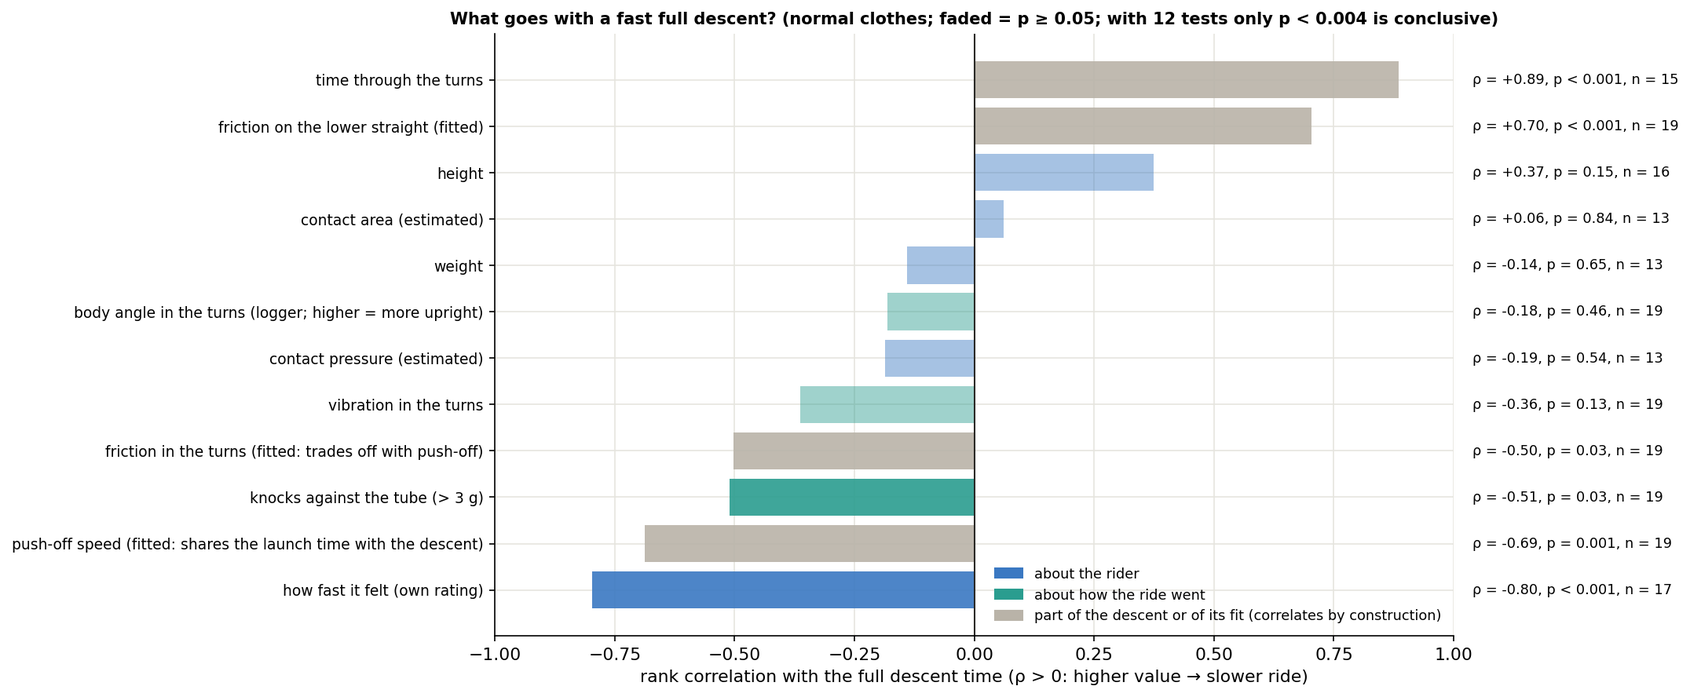
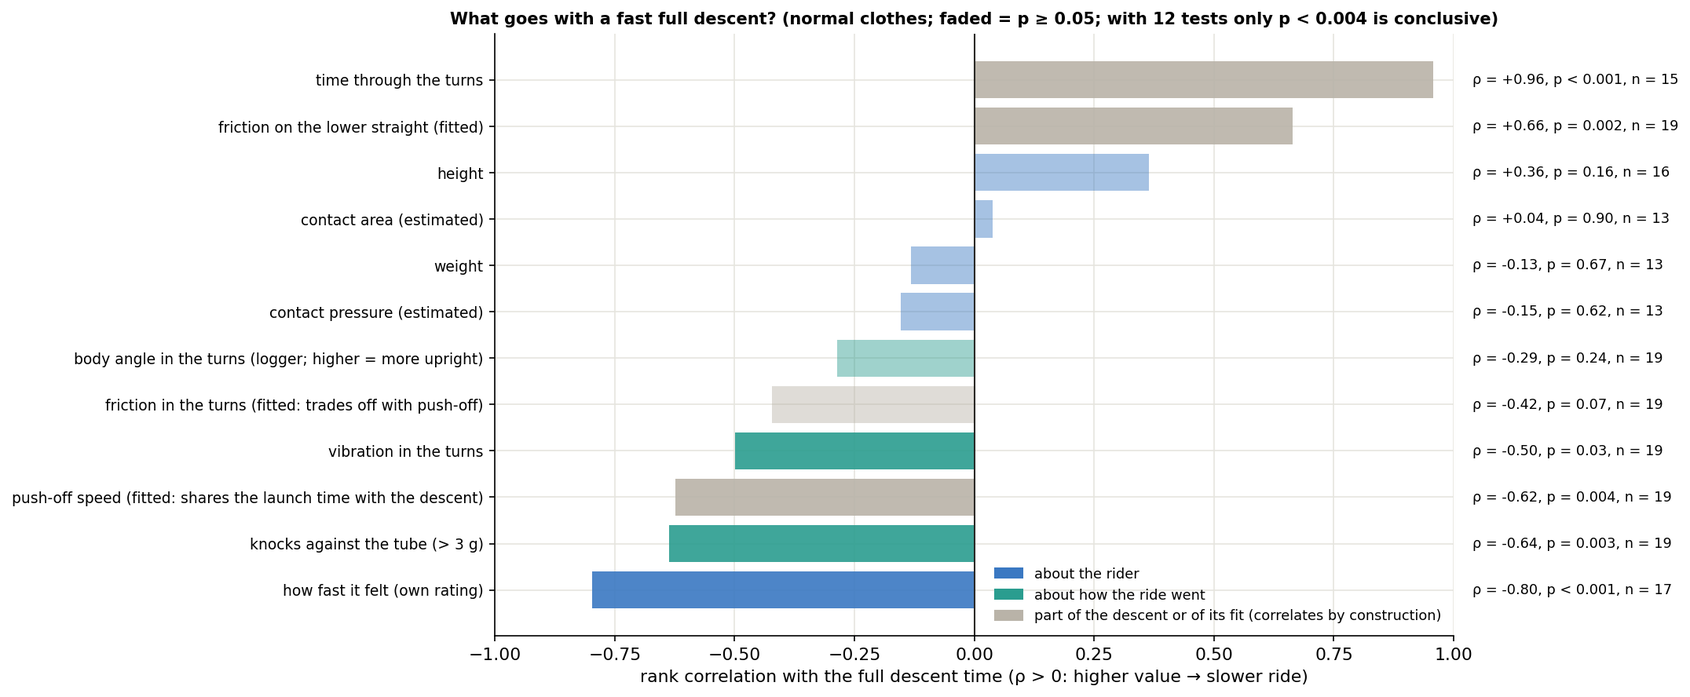
Descent times checked against physics (P07: measured end impossible -> friction fit to its rest position, ~8.4 s); camera views on the main Landing 3-D view; updated stats

diff --git a/results.html b/results.html
@@ -127,24 +127,24 @@
     <li><b>The gap is made in the turns, not on the last straight.</b> <span class="sup">The turn speed decides how a ride ends (p = 0.006). The simulation shows he left the turns at ~13 km/h vs our 6, and that turn friction alone moves the speed out of the tube from 12 to 18 km/h.</span><a class="fr" href="#M2">M2</a><a class="fr" href="#S2">S2</a><a class="fr" href="#L2">L2</a></li>
     <li><b>Our riders crawled because they rode on the stall point.</b> <span class="sup">Friction in the turns 0.54–0.62 against a stall at 0.58; the cop's was about 0.15.</span><a class="fr" href="#M3">M3</a><a class="fr" href="#W3">W3</a></li>
     <li><b>To match the cop you must leave the tube at ≥ 18 km/h.</b> <span class="sup">No straight friction or posture fixes a slow exit: posture changes the last straight by < 2 % at equal speed.</span><a class="fr" href="#M4">M4</a><a class="fr" href="#L1">L1</a><a class="fr" href="#L4">L4</a></li>
-    <li><b>Lying flat goes with fast rides, but posture alone does not explain the cop.</b> <span class="sup">Measured: lying flat 4.2 vs 2.7 km/h in the turns (p = 0.001) and 7.2 vs 13.3 s for the full descent (p = 0.003). Simulated: posture changes the whole-slide time by ±15 % with our friction, ~1 % with his.</span><a class="fr" href="#M5">M5</a><a class="fr" href="#M10">M10</a><a class="fr" href="#W2">W2</a></li>
+    <li><b>Lying flat goes with fast rides, but posture alone does not explain the cop.</b> <span class="sup">Measured: lying flat 4.2 vs 2.7 km/h in the turns (p = 0.001) and 7.2 vs 13.3 s for the full descent (p < 0.001). Simulated: posture changes the whole-slide time by ±15 % with our friction, ~1 % with his.</span><a class="fr" href="#M5">M5</a><a class="fr" href="#M10">M10</a><a class="fr" href="#W2">W2</a></li>
     <li><b>Pushing harder helps, but not enough.</b> <span class="sup">Measured ρ = 0.46 (p = 0.05); simulated 16 km/h push still slower than the cop.</span><a class="fr" href="#M5">M5</a><a class="fr" href="#W1">W1</a></li>
-    <li><b>Not the suit, not body size.</b> <span class="sup">No clear group differences in the turns or over the full descent (taller riders slower, p = 0.04, only suggestive); the cop suit made nobody faster.</span><a class="fr" href="#M6">M6</a><a class="fr" href="#M10">M10</a><a class="fr" href="#M7">M7</a></li>
+    <li><b>Not the suit, not body size.</b> <span class="sup">No clear group differences in the turns or over the full descent (jeans slower, p = 0.04, only suggestive); the cop suit made nobody faster.</span><a class="fr" href="#M6">M6</a><a class="fr" href="#M10">M10</a><a class="fr" href="#M7">M7</a></li>
     <li><b>The cop's swing and twist come from speed and a relaxed body.</b> <span class="sup">The simulation reproduces his 82° roll at the tube mouth with no special technique; tone changes the twist, not the time.</span><a class="fr" href="#S2">S2</a><a class="fr" href="#L3">L3</a></li>
     <li><b>The numbers hold up.</b> <span class="sup">Two sensors agree within 7 %; the simulation matches video it was not fitted to (within 0.1 s at 10.5 m); riders' own ratings rank them correctly (ρ = −0.80 with the full descent time).</span><a class="fr" href="#M8">M8</a><a class="fr" href="#S1">S1</a><a class="fr" href="#M9">M9</a><a class="fr" href="#M11">M11</a></li>
   </ul>
   <p class="notes">Limits: one run per rider per outfit; the cop's numbers rest on two hand-read times from a 15-fps clip;
     posture was seen after the turns. M = measured, S/W/L = simulated (full-body physics, calibrated to the measurements).</p>
   <h2>Measured</h2>
-  <div class="card fig" id="M1"><a href="results/s2g_03_cop_same_stretch.png?v=20261019125410" target="_blank" rel="noopener"><img loading="lazy" src="results/s2g_03_cop_same_stretch.png?v=20261019125410" alt="On the only stretch filmed for both, every rider was slower than the cop"></a><div><span class="fid">M1</span><h3>On the only stretch filmed for both, every rider was slower than the cop</h3><p>Tube mouth → end lip (3.95 m): our fastest riders averaged 10–16 km/h, the cop 20 km/h (all 9 slower, p = 0.004).</p><p class="notes">Times read frame by frame on physical slide features (±0.035–0.07 s).</p></div></div>
-  <div class="card fig" id="M2"><a href="results/s2g_01_outcome.png?v=20261019125410" target="_blank" rel="noopener"><img loading="lazy" src="results/s2g_01_outcome.png?v=20261019125410" alt="How fast you take the turns decides how the ride ends"></a><div><span class="fid">M2</span><h3>How fast you take the turns decides how the ride ends</h3><p>Stopped before the flat: 2.0 ± 0.5 km/h in the turns; stopped on the flat: 3.3 ± 0.7; shot off the end: 4.2 ± 0.7 (p = 0.006). The ones who shot off were also slipperier on the lower straight (friction 0.27 vs 0.48 and 0.59, p < 0.001).</p><p class="notes">Dots = runs, black = mean ± SD. Ending seen on the landing camera.</p></div></div>
-  <div class="card fig" id="M3"><a href="results/s2_06_friction_lever.png?v=20261019125410" target="_blank" rel="noopener"><img loading="lazy" src="results/s2_06_friction_lever.png?v=20261019125410" alt="Everyone rode on the stall point"></a><div><span class="fid">M3</span><h3>Everyone rode on the stall point</h3><p>On a 30° slope, friction 0.58 cancels gravity. Our riders had 0.54–0.62 in the turns, where a small change in friction is a big change in speed.</p><p class="notes">Curves = slide model for two push-off speeds; shaded = our riders.</p></div></div>
-  <div class="card fig" id="M4"><a href="results/ls_02_what_it_takes.png?v=20261019125410" target="_blank" rel="noopener"><img loading="lazy" src="results/ls_02_what_it_takes.png?v=20261019125410" alt="Matching the cop needs speed out of the tube"></a><div><span class="fid">M4</span><h3>Matching the cop needs speed out of the tube</h3><p>Every point on the gold line reproduces the cop's 0.70 s. Our riders all sit to its left: even the slipperiest came out of the tube 3–4 km/h too slowly. The "wannabe cop" (rain suit) is close to the cop.</p><p class="notes">Blue = our 9 riders who shot off, ±1σ (point model fitted to logger + video).</p></div></div>
-  <div class="card fig" id="M5"><a href="results/s2g_05_posture_takeoff.png?v=20261019125410" target="_blank" rel="noopener"><img loading="lazy" src="results/s2g_05_posture_takeoff.png?v=20261019125410" alt="Lying flat went with faster turns; push-off helped a little"></a><div><span class="fid">M5</span><h3>Lying flat went with faster turns; push-off helped a little</h3><p>Lying flat: 4.2 km/h in the turns vs 2.7 sitting up (p = 0.001); 6 of 8 shot off vs 1 of 11 (p = 0.006). Push-off: ρ = 0.46, p = 0.05.</p><p class="notes">Posture coded on the straight, after the turns: slow riders may also sit up because they are slow.</p></div></div>
-  <div class="card fig" id="M6"><a href="results/s2g_02_groups.png?v=20261019125410" target="_blank" rel="noopener"><img loading="lazy" src="results/s2g_02_groups.png?v=20261019125410" alt="Clothes and body size: no clear difference"></a><div><span class="fid">M6</span><h3>Clothes and body size: no clear difference</h3><p>Sex, age, weight, height, estimated contact area and pressure: p = 0.19–0.82. Jeans slower (p = 0.02), only suggestive with 8 comparisons.</p><p class="notes">Bars = mean ± SD, normal-clothes runs only. Group averages only.</p></div></div>
-  <div class="card fig" id="M10"><a href="results/an_4_descent_groups.png?v=20261019125410" target="_blank" rel="noopener"><img loading="lazy" src="results/an_4_descent_groups.png?v=20261019125410" alt="The same comparison for the full descent time"></a><div><span class="fid">M10</span><h3>The same comparison for the full descent time</h3><p>Lying flat in the trough: 7.2 s median from the top to the end vs 13.3 s sitting up (p = 0.003, conclusive even with 8 tests). Weight, contact area and pressure: no difference. Taller riders were slower (8.6 vs 16.9 s, p = 0.04) and jeans slower (17.0 vs 8.6 s, p = 0.09): suggestive only.</p><p class="notes">Normal clothes, Mann-Whitney. Push-off is fitted and shares the launch time with the descent, so its difference is partly built in.</p></div></div>
-  <div class="card fig" id="M11"><a href="results/an_5_descent_correlations.png?v=20261019125410" target="_blank" rel="noopener"><img loading="lazy" src="results/an_5_descent_correlations.png?v=20261019125410" alt="What else goes with a fast full descent?"></a><div><span class="fid">M11</span><h3>What else goes with a fast full descent?</h3><p>How fast it felt matches the real descent best (ρ = −0.80, p < 0.001). Fast rides knocked against the tube more (ρ = −0.51, p = 0.03): a consequence of speed rather than a cause. Weight, height, contact, pressure and body angle in the turns: nothing clear.</p><p class="notes">Grey = parts of the descent or of its fit, which correlate by construction. 12 tests: only p < 0.004 is conclusive.</p></div></div>
-  <div class="card fig" id="M7"><a href="results/s2_02_suit_pairs.png?v=20261019125410" target="_blank" rel="noopener"><img loading="lazy" src="results/s2_02_suit_pairs.png?v=20261019125410" alt="The cop suit did not make us faster"></a><div><span class="fid">M7</span><h3>The cop suit did not make us faster</h3><p>Of three riders who rode in both, P04 was faster in the suit, P05 slower, P06 the same.</p><p class="notes">One run each; the suit was always the second run.</p></div></div>
+  <div class="card fig" id="M1"><a href="results/s2g_03_cop_same_stretch.png?v=20261019130009" target="_blank" rel="noopener"><img loading="lazy" src="results/s2g_03_cop_same_stretch.png?v=20261019130009" alt="On the only stretch filmed for both, every rider was slower than the cop"></a><div><span class="fid">M1</span><h3>On the only stretch filmed for both, every rider was slower than the cop</h3><p>Tube mouth → end lip (3.95 m): our fastest riders averaged 10–16 km/h, the cop 20 km/h (all 9 slower, p = 0.004).</p><p class="notes">Times read frame by frame on physical slide features (±0.035–0.07 s).</p></div></div>
+  <div class="card fig" id="M2"><a href="results/s2g_01_outcome.png?v=20261019130009" target="_blank" rel="noopener"><img loading="lazy" src="results/s2g_01_outcome.png?v=20261019130009" alt="How fast you take the turns decides how the ride ends"></a><div><span class="fid">M2</span><h3>How fast you take the turns decides how the ride ends</h3><p>Stopped before the flat: 2.0 ± 0.5 km/h in the turns; stopped on the flat: 3.3 ± 0.7; shot off the end: 4.2 ± 0.7 (p = 0.006). The ones who shot off were also slipperier on the lower straight (friction 0.27 vs 0.48 and 0.59, p < 0.001).</p><p class="notes">Dots = runs, black = mean ± SD. Ending seen on the landing camera.</p></div></div>
+  <div class="card fig" id="M3"><a href="results/s2_06_friction_lever.png?v=20261019130009" target="_blank" rel="noopener"><img loading="lazy" src="results/s2_06_friction_lever.png?v=20261019130009" alt="Everyone rode on the stall point"></a><div><span class="fid">M3</span><h3>Everyone rode on the stall point</h3><p>On a 30° slope, friction 0.58 cancels gravity. Our riders had 0.54–0.62 in the turns, where a small change in friction is a big change in speed.</p><p class="notes">Curves = slide model for two push-off speeds; shaded = our riders.</p></div></div>
+  <div class="card fig" id="M4"><a href="results/ls_02_what_it_takes.png?v=20261019130009" target="_blank" rel="noopener"><img loading="lazy" src="results/ls_02_what_it_takes.png?v=20261019130009" alt="Matching the cop needs speed out of the tube"></a><div><span class="fid">M4</span><h3>Matching the cop needs speed out of the tube</h3><p>Every point on the gold line reproduces the cop's 0.70 s. Our riders all sit to its left: even the slipperiest came out of the tube 3–4 km/h too slowly. The "wannabe cop" (rain suit) is close to the cop.</p><p class="notes">Blue = our 9 riders who shot off, ±1σ (point model fitted to logger + video).</p></div></div>
+  <div class="card fig" id="M5"><a href="results/s2g_05_posture_takeoff.png?v=20261019130009" target="_blank" rel="noopener"><img loading="lazy" src="results/s2g_05_posture_takeoff.png?v=20261019130009" alt="Lying flat went with faster turns; push-off helped a little"></a><div><span class="fid">M5</span><h3>Lying flat went with faster turns; push-off helped a little</h3><p>Lying flat: 4.2 km/h in the turns vs 2.7 sitting up (p = 0.001); 6 of 8 shot off vs 1 of 11 (p = 0.006). Push-off: ρ = 0.46, p = 0.05.</p><p class="notes">Posture coded on the straight, after the turns: slow riders may also sit up because they are slow.</p></div></div>
+  <div class="card fig" id="M6"><a href="results/s2g_02_groups.png?v=20261019130009" target="_blank" rel="noopener"><img loading="lazy" src="results/s2g_02_groups.png?v=20261019130009" alt="Clothes and body size: no clear difference"></a><div><span class="fid">M6</span><h3>Clothes and body size: no clear difference</h3><p>Sex, age, weight, height, estimated contact area and pressure: p = 0.19–0.82. Jeans slower (p = 0.02), only suggestive with 8 comparisons.</p><p class="notes">Bars = mean ± SD, normal-clothes runs only. Group averages only.</p></div></div>
+  <div class="card fig" id="M10"><a href="results/an_4_descent_groups.png?v=20261019130009" target="_blank" rel="noopener"><img loading="lazy" src="results/an_4_descent_groups.png?v=20261019130009" alt="The same comparison for the full descent time"></a><div><span class="fid">M10</span><h3>The same comparison for the full descent time</h3><p>Lying flat in the trough: 7.2 s median from the top to the end vs 13.3 s sitting up (p < 0.001, conclusive even with 8 tests). Weight, height, contact area and pressure: no clear difference. Jeans were slower (17.0 vs 8.6 s, p = 0.04): suggestive only.</p><p class="notes">Normal clothes, Mann-Whitney. Push-off is fitted and shares the launch time with the descent, so its difference is partly built in.</p></div></div>
+  <div class="card fig" id="M11"><a href="results/an_5_descent_correlations.png?v=20261019130009" target="_blank" rel="noopener"><img loading="lazy" src="results/an_5_descent_correlations.png?v=20261019130009" alt="What else goes with a fast full descent?"></a><div><span class="fid">M11</span><h3>What else goes with a fast full descent?</h3><p>How fast it felt matches the real descent best (ρ = −0.80, p < 0.001). Fast rides knocked against the tube more (ρ = −0.64, p = 0.003): a consequence of speed rather than a cause. Weight, height, contact, pressure and body angle in the turns: nothing clear.</p><p class="notes">Grey = parts of the descent or of its fit, which correlate by construction. 12 tests: only p < 0.004 is conclusive.</p></div></div>
+  <div class="card fig" id="M7"><a href="results/s2_02_suit_pairs.png?v=20261019130009" target="_blank" rel="noopener"><img loading="lazy" src="results/s2_02_suit_pairs.png?v=20261019130009" alt="The cop suit did not make us faster"></a><div><span class="fid">M7</span><h3>The cop suit did not make us faster</h3><p>Of three riders who rode in both, P04 was faster in the suit, P05 slower, P06 the same.</p><p class="notes">One run each; the suit was always the second run.</p></div></div>
 
   <h2>What the simulation adds</h2>
   <p class="notes">The cop was only filmed for his last 4 m, and in our data speed, posture and friction move together. The
@@ -157,23 +157,23 @@
 <tr><td class="l">A harder push wouldn't have been enough</td><td class="l">Only pushes of 0–7.5 km/h observed</td><td class="l">Up to 16 km/h simulated: still slower than the cop (W1)</td></tr>
 <tr><td class="l">His twist is passive</td><td class="l">Seen on video, cause unknown</td><td class="l">Emerges from speed + relaxed body (S2, L3)</td></tr>
 </tbody></table></div>
-  <div class="card fig" id="S1"><a href="results/sim_v1_check.png?v=20261019125410" target="_blank" rel="noopener"><img loading="lazy" src="results/sim_v1_check.png?v=20261019125410" alt="Validation: the simulation reproduces video it was not fitted to"></a><div><span class="fid">S1</span><h3>Validation: the simulation reproduces video it was not fitted to</h3><p>Friction on the straight was fitted only to the 11.05 → 12.4 m time. The earlier video gates are an independent test: at 10.5 m the sim is within 0.03–0.11 s. From 9.5 m it covers the stretch about 0.3 s quicker than the real rider, so it slightly <b>over</b>estimates our riders' speed out of the tube. The real gap to the cop is, if anything, larger.</p><p class="notes">Full-body physics (Rapier), turn friction fitted to each rider's logger turn time, synchronised at 11.05 m. Both riders must leave the lip, as on the video; Stef then fits the window less well (0.26 s RMS vs 0.015 s for Angel).</p></div></div>
-  <div class="card fig" id="S2"><a href="results/sim_v2_unmeasurable.png?v=20261019125410" target="_blank" rel="noopener"><img loading="lazy" src="results/sim_v2_unmeasurable.png?v=20261019125410" alt="What nobody filmed: the cop's turns"></a><div><span class="fid">S2</span><h3>What nobody filmed: the cop's turns</h3><p>His clip starts at the tube mouth. Calibrated to his 0.70 s, the simulation says he left the turns at about 13 km/h (ours 6) and came out of the tube at 18 (ours 10–12). Relaxed, at that speed, his body rolls 82° at the mouth, as on his video; our riders roll under 10°.</p><p class="notes">Cop: one friction for the whole slide (0.15) with a limp body; riders: 0.41 in the turns.</p></div></div>
+  <div class="card fig" id="S1"><a href="results/sim_v1_check.png?v=20261019130009" target="_blank" rel="noopener"><img loading="lazy" src="results/sim_v1_check.png?v=20261019130009" alt="Validation: the simulation reproduces video it was not fitted to"></a><div><span class="fid">S1</span><h3>Validation: the simulation reproduces video it was not fitted to</h3><p>Friction on the straight was fitted only to the 11.05 → 12.4 m time. The earlier video gates are an independent test: at 10.5 m the sim is within 0.03–0.11 s. From 9.5 m it covers the stretch about 0.3 s quicker than the real rider, so it slightly <b>over</b>estimates our riders' speed out of the tube. The real gap to the cop is, if anything, larger.</p><p class="notes">Full-body physics (Rapier), turn friction fitted to each rider's logger turn time, synchronised at 11.05 m. Both riders must leave the lip, as on the video; Stef then fits the window less well (0.26 s RMS vs 0.015 s for Angel).</p></div></div>
+  <div class="card fig" id="S2"><a href="results/sim_v2_unmeasurable.png?v=20261019130009" target="_blank" rel="noopener"><img loading="lazy" src="results/sim_v2_unmeasurable.png?v=20261019130009" alt="What nobody filmed: the cop's turns"></a><div><span class="fid">S2</span><h3>What nobody filmed: the cop's turns</h3><p>His clip starts at the tube mouth. Calibrated to his 0.70 s, the simulation says he left the turns at about 13 km/h (ours 6) and came out of the tube at 18 (ours 10–12). Relaxed, at that speed, his body rolls 82° at the mouth, as on his video; our riders roll under 10°.</p><p class="notes">Cop: one friction for the whole slide (0.15) with a limp body; riders: 0.41 in the turns.</p></div></div>
 
   <h2>Effect of each simulated parameter</h2>
   <p class="notes">One parameter changed at a time, the rest at our riders' values. Try them on the
     <a href="./">Whole-slide</a> and <a href="launch/">Landing</a> simulations.</p>
-  <div class="card fig" id="W1"><a href="results/sim_w1_push.png?v=20261019125410" target="_blank" rel="noopener"><img loading="lazy" src="results/sim_w1_push.png?v=20261019125410" alt="Push-off speed"></a><div><span class="fid">W1</span><h3>Push-off speed</h3><p>Expected: a harder push helps (2 → 16 km/h: 5.9 → 3.2 s for normal clothes), but even 16 km/h with our friction is slower than the cop with a gentle push (2.2–2.9 s).</p><p class="notes">Whole slide, full-body physics.</p></div></div>
-  <div class="card fig" id="W2"><a href="results/sim_w2_posture.png?v=20261019125410" target="_blank" rel="noopener"><img loading="lazy" src="results/sim_w2_posture.png?v=20261019125410" alt="Starting position"></a><div><span class="fid">W2</span><h3>Starting position</h3><p>Expected: ±15 % on the time with our friction (sitting up 4.2 s, cop position 5.7 s); about 2.65 s for every position with the cop's friction. Position mostly changes the twist.</p><p class="notes">Whole slide.</p></div></div>
-  <div class="card fig" id="W3"><a href="results/sim_w3_profiles.png?v=20261019125410" target="_blank" rel="noopener"><img loading="lazy" src="results/sim_w3_profiles.png?v=20261019125410" alt="Clothes (= fitted friction)"></a><div><span class="fid">W3</span><h3>Clothes (= fitted friction)</h3><p>Expected: the curves split in the turns (ours drop to about 5 km/h, the cop keeps 13–15) and never come back together.</p><p class="notes">Whole slide, same push for all.</p></div></div>
-  <div class="card fig" id="L1"><a href="results/sim_l1_speed.png?v=20261019125410" target="_blank" rel="noopener"><img loading="lazy" src="results/sim_l1_speed.png?v=20261019125410" alt="Speed out of the tube"></a><div><span class="fid">L1</span><h3>Speed out of the tube</h3><p>Expected: the last straight depends mostly on entry speed; ~18 km/h or more is needed for 0.70 s.</p><p class="notes">Last straight only.</p></div></div>
-  <div class="card fig" id="L2"><a href="results/sim_l2_turns.png?v=20261019125410" target="_blank" rel="noopener"><img loading="lazy" src="results/sim_l2_turns.png?v=20261019125410" alt="Friction in the turns"></a><div><span class="fid">L2</span><h3>Friction in the turns</h3><p>Expected: 0.41 → 0.15 raises the speed out of the tube from 12.5 to 18 km/h and cuts the last straight from 0.98 to 0.76 s.</p><p class="notes">Straight friction kept at our riders' 0.21.</p></div></div>
-  <div class="card fig" id="L3"><a href="results/sim_l3_tone.png?v=20261019125410" target="_blank" rel="noopener"><img loading="lazy" src="results/sim_l3_tone.png?v=20261019125410" alt="Muscle tone"></a><div><span class="fid">L3</span><h3>Muscle tone</h3><p>Expected: a limp body twists ~60° at the mouth, a stiffer one 18–44°; the time barely changes (0.68–0.71 s).</p><p class="notes">The cop's run.</p></div></div>
-  <div class="card fig" id="L4"><a href="results/sim_l4_posture.png?v=20261019125410" target="_blank" rel="noopener"><img loading="lazy" src="results/sim_l4_posture.png?v=20261019125410" alt="Body position on the last straight"></a><div><span class="fid">L4</span><h3>Body position on the last straight</h3><p>Expected: at 18 km/h out of the tube all positions take 0.67–0.68 s.</p><p class="notes">Last straight only.</p></div></div>
+  <div class="card fig" id="W1"><a href="results/sim_w1_push.png?v=20261019130009" target="_blank" rel="noopener"><img loading="lazy" src="results/sim_w1_push.png?v=20261019130009" alt="Push-off speed"></a><div><span class="fid">W1</span><h3>Push-off speed</h3><p>Expected: a harder push helps (2 → 16 km/h: 5.9 → 3.2 s for normal clothes), but even 16 km/h with our friction is slower than the cop with a gentle push (2.2–2.9 s).</p><p class="notes">Whole slide, full-body physics.</p></div></div>
+  <div class="card fig" id="W2"><a href="results/sim_w2_posture.png?v=20261019130009" target="_blank" rel="noopener"><img loading="lazy" src="results/sim_w2_posture.png?v=20261019130009" alt="Starting position"></a><div><span class="fid">W2</span><h3>Starting position</h3><p>Expected: ±15 % on the time with our friction (sitting up 4.2 s, cop position 5.7 s); about 2.65 s for every position with the cop's friction. Position mostly changes the twist.</p><p class="notes">Whole slide.</p></div></div>
+  <div class="card fig" id="W3"><a href="results/sim_w3_profiles.png?v=20261019130009" target="_blank" rel="noopener"><img loading="lazy" src="results/sim_w3_profiles.png?v=20261019130009" alt="Clothes (= fitted friction)"></a><div><span class="fid">W3</span><h3>Clothes (= fitted friction)</h3><p>Expected: the curves split in the turns (ours drop to about 5 km/h, the cop keeps 13–15) and never come back together.</p><p class="notes">Whole slide, same push for all.</p></div></div>
+  <div class="card fig" id="L1"><a href="results/sim_l1_speed.png?v=20261019130009" target="_blank" rel="noopener"><img loading="lazy" src="results/sim_l1_speed.png?v=20261019130009" alt="Speed out of the tube"></a><div><span class="fid">L1</span><h3>Speed out of the tube</h3><p>Expected: the last straight depends mostly on entry speed; ~18 km/h or more is needed for 0.70 s.</p><p class="notes">Last straight only.</p></div></div>
+  <div class="card fig" id="L2"><a href="results/sim_l2_turns.png?v=20261019130009" target="_blank" rel="noopener"><img loading="lazy" src="results/sim_l2_turns.png?v=20261019130009" alt="Friction in the turns"></a><div><span class="fid">L2</span><h3>Friction in the turns</h3><p>Expected: 0.41 → 0.15 raises the speed out of the tube from 12.5 to 18 km/h and cuts the last straight from 0.98 to 0.76 s.</p><p class="notes">Straight friction kept at our riders' 0.21.</p></div></div>
+  <div class="card fig" id="L3"><a href="results/sim_l3_tone.png?v=20261019130009" target="_blank" rel="noopener"><img loading="lazy" src="results/sim_l3_tone.png?v=20261019130009" alt="Muscle tone"></a><div><span class="fid">L3</span><h3>Muscle tone</h3><p>Expected: a limp body twists ~60° at the mouth, a stiffer one 18–44°; the time barely changes (0.68–0.71 s).</p><p class="notes">The cop's run.</p></div></div>
+  <div class="card fig" id="L4"><a href="results/sim_l4_posture.png?v=20261019130009" target="_blank" rel="noopener"><img loading="lazy" src="results/sim_l4_posture.png?v=20261019130009" alt="Body position on the last straight"></a><div><span class="fid">L4</span><h3>Body position on the last straight</h3><p>Expected: at 18 km/h out of the tube all positions take 0.67–0.68 s.</p><p class="notes">Last straight only.</p></div></div>
 
   <h2>How much to trust the numbers</h2>
-  <div class="card fig" id="M8"><a href="results/s2_05_two_sensors_agree.png?v=20261019125410" target="_blank" rel="noopener"><img loading="lazy" src="results/s2_05_two_sensors_agree.png?v=20261019125410" alt="Two independent sensors give the same turn speeds"></a><div><span class="fid">M8</span><h3>Two independent sensors give the same turn speeds</h3><p>Waist logger vs chest GoPro gyro: within 7 % (median). Rider-to-rider differences (±50 %) are real.</p><p class="notes">On the line = perfect agreement; shaded = ±10 %.</p></div></div>
-  <div class="card fig" id="M9"><a href="results/s2g_04_felt_vs_real.png?v=20261019125410" target="_blank" rel="noopener"><img loading="lazy" src="results/s2g_04_felt_vs_real.png?v=20261019125410" alt="Riders knew how fast they were"></a><div><span class="fid">M9</span><h3>Riders knew how fast they were</h3><p>Their own rating matched the measured speed within a few points (p = 0.15) and ranked everyone right (ρ = 0.78, p < 0.001).</p><p class="notes">Left: only the 8 riders filmed on the same stretch as the cop.</p></div></div>
+  <div class="card fig" id="M8"><a href="results/s2_05_two_sensors_agree.png?v=20261019130009" target="_blank" rel="noopener"><img loading="lazy" src="results/s2_05_two_sensors_agree.png?v=20261019130009" alt="Two independent sensors give the same turn speeds"></a><div><span class="fid">M8</span><h3>Two independent sensors give the same turn speeds</h3><p>Waist logger vs chest GoPro gyro: within 7 % (median). Rider-to-rider differences (±50 %) are real.</p><p class="notes">On the line = perfect agreement; shaded = ±10 %.</p></div></div>
+  <div class="card fig" id="M9"><a href="results/s2g_04_felt_vs_real.png?v=20261019130009" target="_blank" rel="noopener"><img loading="lazy" src="results/s2g_04_felt_vs_real.png?v=20261019130009" alt="Riders knew how fast they were"></a><div><span class="fid">M9</span><h3>Riders knew how fast they were</h3><p>Their own rating matched the measured speed within a few points (p = 0.15) and ranked everyone right (ρ = 0.78, p < 0.001).</p><p class="notes">Left: only the 8 riders filmed on the same stretch as the cop.</p></div></div>
 
   <div class="card"><h3>Reading the statistics</h3><ul class="main" style="font-size:14px">
     <li><b>p-value</b>: how likely a difference this big would be by pure chance if there were really no difference.

diff --git a/data.html b/data.html
@@ -128,14 +128,14 @@
   <div id="runView"></div>
   <h2>All rides at a glance</h2>
   <div class="card"><h3>Every ride ranked by its full descent</h3>
-    <a href="results/an_1_descent_ranking.png?v=20261019123554" target="_blank"><img class="fig" src="results/an_1_descent_ranking.png?v=20261019123554" alt="ranking" loading="lazy"></a>
+    <a href="results/an_1_descent_ranking.png?v=20261019130009" target="_blank"><img class="fig" src="results/an_1_descent_ranking.png?v=20261019130009" alt="ranking" loading="lazy"></a>
     <p class="notes">Average speed from the top of the slope (logger departure) until the rider left the lip or came to rest.
       Leaving the lip: model fitted to the landing video's tube mouth → lip time. Coming to rest: the median of three independent
       estimates (logger goes quiet, GoPro picture goes still, model), with their spread as the error line; "?" = they differ by
       more than 2 s, typically slow riders who crept to a stop. ○ = the model fitted to that ride. The cop's full descent was never
       filmed: his line comes from the speed profiles that reproduce his measured 0.70 s on the last stretch.</p></div>
   <div class="card"><h3>The two best-measured stretches, ranked separately</h3>
-    <a href="results/an_3_two_stretches.png?v=20261019123554" target="_blank"><img class="fig" src="results/an_3_two_stretches.png?v=20261019123554" alt="two stretches" loading="lazy"></a>
+    <a href="results/an_3_two_stretches.png?v=20261019130009" target="_blank"><img class="fig" src="results/an_3_two_stretches.png?v=20261019130009" alt="two stretches" loading="lazy"></a>
     <p class="notes">The full-descent ranking mixes a well-measured part (the turns) with a weak one (when a slow ride really
       ended). Here each stretch is ranked on its own, over the same distance for everyone. Left: the time through the turns,
       from the gyro, with both ends measured (no launch time needed: it can't be pinned from the logger alone). Right: the landing video's tube mouth → lip time, which only riders who reached the lip
@@ -148,7 +148,7 @@
       about ±0.3–0.5 s. A sync cue that every camera and the logger record (the GO beep next to the landing camera, a clap or a
       flash) would make the whole descent measurable end to end next time.</p></div>
   <div class="card"><h3>Model vs measurement, stretch by stretch</h3>
-    <a href="results/an_2_model_vs_measured.png?v=20261019123554" target="_blank"><img class="fig" src="results/an_2_model_vs_measured.png?v=20261019123554" alt="model vs measured" loading="lazy" style="max-width:640px"></a>
+    <a href="results/an_2_model_vs_measured.png?v=20261019130009" target="_blank"><img class="fig" src="results/an_2_model_vs_measured.png?v=20261019130009" alt="model vs measured" loading="lazy" style="max-width:640px"></a>
     <p class="notes">Each dot is one ride on one stretch: measured average speed (turn timing from the logger, lower straight from
       logger + landing camera, tube mouth → lip from the landing video) against the fitted model on the same stretch. The model
       has three free numbers per ride (push, turn friction, lower friction), so a close match on four stretches is a real check.
@@ -169,7 +169,7 @@ const $ = id => document.getElementById(id);
 const css = v => getComputedStyle(document.documentElement).getPropertyValue(v).trim();
 const fmt = (v, d = 1) => (v == null || Number.isNaN(v)) ? "—" : (+v).toFixed(d);
 const tip = $("tip");
-const V = "20261019123554";
+const V = "20261019130009";
 /* ------------------------------------------------------------------ chart */
 function niceTicks(lo, hi, n = 5) {
   const span = hi - lo || 1, step0 = span / n, mag = Math.pow(10, Math.floor(Math.log10(step0)));
@@ -309,13 +309,13 @@ function bars() {
   const T = r => (ex(r).desc || {}).t, rs = R.filter(r => T(r) > 0).sort((a, b) => T(a) - T(b)), tmax = Math.max(...rs.map(T));
   $("bars").innerHTML = rs.map(r => {
     const d = ex(r).desc, w = Math.min(T(r), 20) / Math.min(tmax, 20) * 100, L = OUT[outc(r)], c = L ? L[1] : "#9aa6b0", odd = d.spread > 2;
-    const bar = r.quality === "C" || d.src.startsWith("chest") ? `border:2px dashed ${c}` : `background:${c};opacity:${odd ? 0.5 : 1}`;
+    const bar = r.quality === "C" || d.src.startsWith("chest") || d.lower_bound ? `border:2px dashed ${c}` : `background:${c};opacity:${odd ? 0.5 : 1}`;
     return `<div class="frow${SEL && SEL.run_id === r.run_id ? " sel" : ""}" data-id="${r.run_id}" style="cursor:pointer" title="${d.src}${d.spread ? ` · estimates differ by ${d.spread.toFixed(1)} s` : ""}">` +
-      `<span class="fl">${nm(r)}</span><span class="fb"><i style="width:${w.toFixed(1)}%;${bar}"></i></span><b style="white-space:nowrap">${fmt(T(r))} s${odd ? "?" : ""}${T(r) > 20 ? "→" : ""}</b></div>`;
+      `<span class="fl">${nm(r)}</span><span class="fb"><i style="width:${w.toFixed(1)}%;${bar}"></i></span><b style="white-space:nowrap">${d.lower_bound ? "~" : ""}${fmt(T(r))} s${odd ? "?" : ""}${T(r) > 20 ? "→" : ""}</b></div>`;
   }).join("");
   $("bars").querySelectorAll(".frow").forEach(e => e.addEventListener("click", () => { select(+e.dataset.id); $("runView").scrollIntoView({ behavior: "smooth" }); }));
   legend($("legB"), Object.values(OUT).map(([n, c]) => ({ name: n, color: c })).concat([{ name: "faded / ? = end of ride uncertain (> 2 s)", color: "#8a8984" },
-    { name: "dashed = timed from the chest-camera picture (logger unusable)", color: "#8a8984", dash: true }]));
+    { name: "dashed = timed from the chest-camera picture, or ~ = physics estimate (measured end impossible)", color: "#8a8984", dash: true }]));
 }
 
 function rankOf(r, key) {

diff --git a/launch/index.html b/launch/index.html
@@ -142,6 +142,7 @@
     <div class="card"><div id="view"></div>
       <div class="chips" style="margin-top:8px"><button class="chip" id="play">▶ run the body physics</button>
         <button class="chip" id="slow">¼ speed</button><button class="chip" id="real">real time</button></div>
+      <div class="chips" style="margin-top:6px"><button class="chip active" data-vcam="follow">follow</button><button class="chip" data-vcam="landing">landing camera view</button><button class="chip" data-vcam="pov">rider's view</button></div>
       <div class="tiles" id="bodyRead" style="margin-top:8px"></div>
       <p class="notes">Full-body physics (Rapier engine): 11 linked body parts, contacts and Coulomb friction with the real
         trough shape, flight off the lip and landing on the playground. Rolling, legs swinging and head knocks emerge from the
@@ -172,13 +173,13 @@
   </div>
   <h2>Effect of each parameter</h2>
   <p class="notes">Each figure changes one setting and keeps the rest fixed.</p>
-  <div class="card pfig"><a href="../results/sim_l1_speed.png?v=20261019125420" target="_blank"><img src="../results/sim_l1_speed.png?v=20261019125420" alt="Speed out of the tube" loading="lazy"></a>
+  <div class="card pfig"><a href="../results/sim_l1_speed.png?v=20261019130010" target="_blank"><img src="../results/sim_l1_speed.png?v=20261019130010" alt="Speed out of the tube" loading="lazy"></a>
     <div><h3>Speed out of the tube</h3><p><b>Expected:</b> The time on the last straight depends mostly on how fast you come out of the tube; friction on the straight moves it much less. Only about 18 km/h or more gives the cop's 0.70 s. P12 came out at 12 km/h and needed 1.04 s.</p></div></div>
-  <div class="card pfig"><a href="../results/sim_l2_turns.png?v=20261019125420" target="_blank"><img src="../results/sim_l2_turns.png?v=20261019125420" alt="Friction in the turns" loading="lazy"></a>
+  <div class="card pfig"><a href="../results/sim_l2_turns.png?v=20261019130010" target="_blank"><img src="../results/sim_l2_turns.png?v=20261019130010" alt="Friction in the turns" loading="lazy"></a>
     <div><h3>Friction in the turns</h3><p><b>Expected:</b> Keeping our riders' straight friction, lowering the turn friction from 0.41 (ours) to 0.15 (the cop's) raises the speed out of the tube from 12.5 to 18 km/h and cuts the last straight from 0.98 to 0.76 s. The gap is made in the turns.</p></div></div>
-  <div class="card pfig"><a href="../results/sim_l3_tone.png?v=20261019125420" target="_blank"><img src="../results/sim_l3_tone.png?v=20261019125420" alt="Muscle tone" loading="lazy"></a>
+  <div class="card pfig"><a href="../results/sim_l3_tone.png?v=20261019130010" target="_blank"><img src="../results/sim_l3_tone.png?v=20261019130010" alt="Muscle tone" loading="lazy"></a>
     <div><h3>Muscle tone</h3><p><b>Expected:</b> A limp body (tone 0) twists about 60° at the tube mouth; a body held stiffer twists 18–44°. The time hardly changes (0.68–0.71 s). The cop's big twist on the video is what a fast, relaxed body does.</p></div></div>
-  <div class="card pfig"><a href="../results/sim_l4_posture.png?v=20261019125420" target="_blank"><img src="../results/sim_l4_posture.png?v=20261019125420" alt="Body position" loading="lazy"></a>
+  <div class="card pfig"><a href="../results/sim_l4_posture.png?v=20261019130010" target="_blank"><img src="../results/sim_l4_posture.png?v=20261019130010" alt="Body position" loading="lazy"></a>
     <div><h3>Body position</h3><p><b>Expected:</b> At the same 18 km/h out of the tube every position takes about the same time. Position does not explain the gap on the last straight.</p></div></div>
   <h2>Recorded runs vs the full-body physics</h2>
   <p class="notes">Each case is the 3-D ragdoll calibrated to that run (friction in the turns from the logger's turn time,
@@ -203,15 +204,15 @@
 </main>
 <div class="tip" id="tip"></div>
 <script src="https://cdnjs.cloudflare.com/ajax/libs/three.js/r128/three.min.js"></script>
-<script type="module" src="body_view.js?v=20261019125420"></script>
-<script type="module" src="body_replay.js?v=20261019125420"></script>
+<script type="module" src="body_view.js?v=20261019130010"></script>
+<script type="module" src="body_replay.js?v=20261019130010"></script>
 <script>
 "use strict";
 const $ = id => document.getElementById(id);
 const css = v => getComputedStyle(document.documentElement).getPropertyValue(v).trim();
 const fmt = (v, d = 1) => (v == null || Number.isNaN(v)) ? "—" : (+v).toFixed(d);
 const tip = $("tip");
-const V = "20261019125420";
+const V = "20261019130010";
 /* ------------------------------------------------------------------ chart */
 function niceTicks(lo, hi, n = 5) {
   const span = hi - lo || 1, step0 = span / n, mag = Math.pow(10, Math.floor(Math.log10(step0)));

diff --git a/launch/body_view.js b/launch/body_view.js
@@ -28,7 +28,7 @@ const sun = new THREE.DirectionalLight(0xffffff, 0.75); sun.position.set(2, 6, 5
   ring.position.set(...Fm.o.map((x, i) => x + Fm.n[i] * GEO.R)); ring.quaternion.setFromUnitVectors(new THREE.Vector3(0, 0, 1), new THREE.Vector3(...Fm.t)); scene.add(ring);
 }
 
-let RAP = null, sim = null, meshes = {}, rate = 0.5, acc = 0, last = 0, camT = new THREE.Vector3();
+let RAP = null, sim = null, meshes = {}, rate = 0.5, acc = 0, last = 0, camT = new THREE.Vector3(), VCAM = "follow";
 const COLORS = { head: 0xd9a888, torso: 0x1d2533, pelvis: 0x1d2533 };
 function buildMeshes() {
   Object.values(meshes).forEach(m => scene.remove(m)); meshes = {};
@@ -54,8 +54,16 @@ function sync() {
   const s = Math.min(sim.state().s, GEO.S_LIP), F = frameAt(s);   // follow the trough axis, not the body
   const tgt = sim.state().s <= GEO.S_LIP ? new THREE.Vector3(...F.o.map((x, i) => x + F.n[i] * GEO.R)) : new THREE.Vector3(c.x, c.y, c.z);
   camT.lerp(tgt, 0.15);
-  cam.position.set(camT.x - 1.0, camT.y + 1.15, camT.z + 1.6); cam.lookAt(camT);
+  if (VCAM === "pov" && meshes.head) {   // rider's view: from the head, looking down the slide like a chest camera
+    const h = meshes.head.position, F2 = frameAt(Math.min(s + 1.2, GEO.S_LIP));
+    cam.position.set(h.x, h.y + 0.12, h.z); cam.lookAt(F2.o[0] + F2.n[0] * GEO.R * 0.6, F2.o[1] + F2.n[1] * GEO.R * 0.6, F2.o[2] + F2.n[2] * GEO.R * 0.6);
+  } else if (VCAM === "landing") {       // fixed, beside the lower slide looking up it, like the landing camera
+    const A = frameAt(10.6), e = A.o.map((x, i) => x + A.b[i] * 4.2 - A.t[i] * 2.4);
+    cam.position.set(e[0], e[1] + 1.3, e[2]); cam.lookAt(A.o[0] - A.t[0] * 0.8, A.o[1] - A.t[1] * 0.8 + 0.2, A.o[2] - A.t[2] * 0.8);
+  } else { cam.position.set(camT.x - 1.0, camT.y + 1.15, camT.z + 1.6); cam.lookAt(camT); }
 }
+document.querySelectorAll("[data-vcam]").forEach(b => b.addEventListener("click", () => { VCAM = b.dataset.vcam;
+  document.querySelectorAll("[data-vcam]").forEach(x => x.classList.toggle("active", x === b)); if (sim) sync(); }));
 function readouts(final) {
   const st = sim.state(), f = (x, d = 2) => x == null ? "—" : x.toFixed(d);
   const tml = st.tLip != null && st.tMouth != null ? st.tLip - st.tMouth : null;
